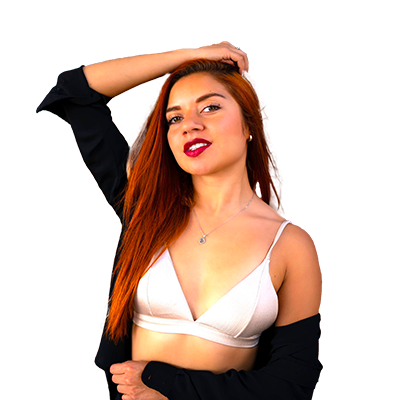
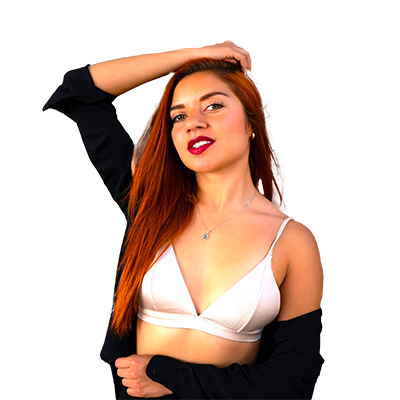
•  added new images for Jazmyne Lewis, Lorena Charry, Yvonne & Rudy, Ernesto & Denisse (transfer from Iroko)

Changed region(s): [[0.09, 0.09, 0.81, 1.0], [0.12, 0.18, 0.18, 0.24], [0.54, 0.72, 0.57, 0.75]]

diff --git a/src/AssetLoader.ts b/src/AssetLoader.ts
@@ -30,7 +30,7 @@ class AssetLoader {
             imageList['maissaa_bachir'] = { fileName:'maissaa_bachir.png', imgSrc: require('../assets/portraits/maissaa_bachir.png')}; 
             imageList['sisy_ayala'] = { fileName:'sisy_ayala.png', imgSrc: require('../assets/portraits/sisy_ayala.png')}; 
             imageList['rafa_gonzalez'] = { fileName:'rafa_gonzalez.png', imgSrc: require('../assets/portraits/rafa_gonzalez.png')}; 
-            // imageList['lorena_charry'] = { fileName:'lorena_charry.png', imgSrc: require('../assets/portraits/lorena_charry.png')}; 
+            imageList['lorena_charry'] = { fileName:'lorena_charry.png', imgSrc: require('../assets/portraits/lorena_charry.png')}; 
             imageList['kebrina_dejesus'] = { fileName:'kebrina_dejesus.png', imgSrc: require('../assets/portraits/kebrina_dejesus.png')}; 
             imageList['raul_-_delia'] = { fileName:'raul_-_delia.png', imgSrc: require('../assets/portraits/raul_-_delia.png')}; 
             imageList['luisa_-_paulo'] = { fileName:'luisa_-_paulo.png', imgSrc: require('../assets/portraits/luisa_-_paulo.png')}; 
@@ -54,9 +54,10 @@ class AssetLoader {
             imageList['edwin_-_ahtoy'] = { fileName:'edwin_-_ahtoy.png', imgSrc: require('../assets/portraits/edwin_-_ahtoy.png')}; 
             imageList['joseal'] = { fileName:'joseal.png', imgSrc: require('../assets/portraits/joseal.png')}; 
             imageList['celeste_williamson'] = { fileName:'celeste_williamson.png', imgSrc: require('../assets/portraits/celeste_williamson.png')}; 
-            // imageList['yvonne_-_rudy'] = { fileName:'yvonne_-_rudy.png', imgSrc: require('../assets/portraits/yvonne_-_rudy.png')}; 
+            imageList['jessica_quiles'] = { fileName:'jessica_quiles.png', imgSrc: require('../assets/portraits/jessica_quiles.png')}; 
+            imageList['yvonne_-_rudy'] = { fileName:'yvonne_-_rudy.png', imgSrc: require('../assets/portraits/yvonne_-_rudy.png')}; 
             imageList['rna_dance_company'] = { fileName:'rna_dance_company.png', imgSrc: require('../assets/portraits/rna_dance_company.png')}; 
-            // imageList['ernesto_-_denisse'] = { fileName:'ernesto_-_denisse.png', imgSrc: require('../assets/portraits/ernesto_-_denisse.png')}; 
+            imageList['ernesto_-_denisse'] = { fileName:'ernesto_-_denisse.png', imgSrc: require('../assets/portraits/ernesto_-_denisse.png')}; 
             imageList['cam'] = { fileName:'cam.png', imgSrc: require('../assets/portraits/cam.png')}; 
             imageList['adrian_tenorio'] = { fileName:'adrian_tenorio.png', imgSrc: require('../assets/portraits/adrian_tenorio.png')}; 
             imageList['dejon_-_clo'] = { fileName:'dejon_-_clo.png', imgSrc: require('../assets/portraits/dejon_-_clo.png')}; 
@@ -67,7 +68,6 @@ class AssetLoader {
             imageList['chris_-_alexus'] = { fileName:'chris_-_alexus.png', imgSrc: require('../assets/portraits/chris_-_alexus.png')}; 
             imageList['marc_-_rose'] = { fileName:'marc_-_rose.png', imgSrc: require('../assets/portraits/marc_-_rose.png')}; 
             imageList['ataca_-_alemana'] = { fileName:'ataca_-_alemana.png', imgSrc: require('../assets/portraits/ataca_-_alemana.png')}; 
-            imageList['jessica_quiles'] = { fileName:'jessica_quiles.png', imgSrc: require('../assets/portraits/jessica_quiles.png')}; 
             imageList['jovan_casanova'] = { fileName:'jovan_casanova.png', imgSrc: require('../assets/portraits/jovan_casanova.png')}; 
             imageList['fuego_-_hielo'] = { fileName:'fuego_-_hielo.png', imgSrc: require('../assets/portraits/fuego_-_hielo.png')}; 
             imageList['rafael_-_carine'] = { fileName:'rafael_-_carine.png', imgSrc: require('../assets/portraits/rafael_-_carine.png')}; 
@@ -80,7 +80,7 @@ class AssetLoader {
             imageList['desi_caliente'] = { fileName:'desi_caliente.png', imgSrc: require('../assets/portraits/desi_caliente.png')}; 
             imageList['tito_garcia'] = { fileName:'tito_garcia.png', imgSrc: require('../assets/portraits/tito_garcia.png')}; 
             imageList['rose_turuka'] = { fileName:'rose_turuka.png', imgSrc: require('../assets/portraits/rose_turuka.png')}; 
-            // imageList['jazmyne_lewis'] = { fileName:'jazmyne_lewis.png', imgSrc: require('../assets/portraits/jazmyne_lewis.png')}; 
+            imageList['jazmyne_lewis'] = { fileName:'jazmyne_lewis.png', imgSrc: require('../assets/portraits/jazmyne_lewis.png')}; 
             imageList['bachatito'] = { fileName:'bachatito.png', imgSrc: require('../assets/portraits/bachatito.png')}; 
             imageList['alemana'] = { fileName:'alemana.png', imgSrc: require('../assets/portraits/alemana.png')}; 
             imageList['daniel_-_kathryn'] = { fileName:'daniel_-_kathryn.png', imgSrc: require('../assets/portraits/daniel_-_kathryn.png')}; 
@@ -88,6 +88,8 @@ class AssetLoader {
             imageList['diego_-_yurley'] = { fileName:'diego_-_yurley.png', imgSrc: require('../assets/portraits/diego_-_yurley.png')}; 
             imageList['ebonie_lee'] = { fileName:'ebonie_lee.png', imgSrc: require('../assets/portraits/ebonie_lee.png')}; 
             imageList['eric_-_marcela'] = { fileName:'eric_-_marcela.png', imgSrc: require('../assets/portraits/eric_-_marcela.png')}; 
+            
+     
         } catch (error) {
             console.log('Could not load asset');
         };
